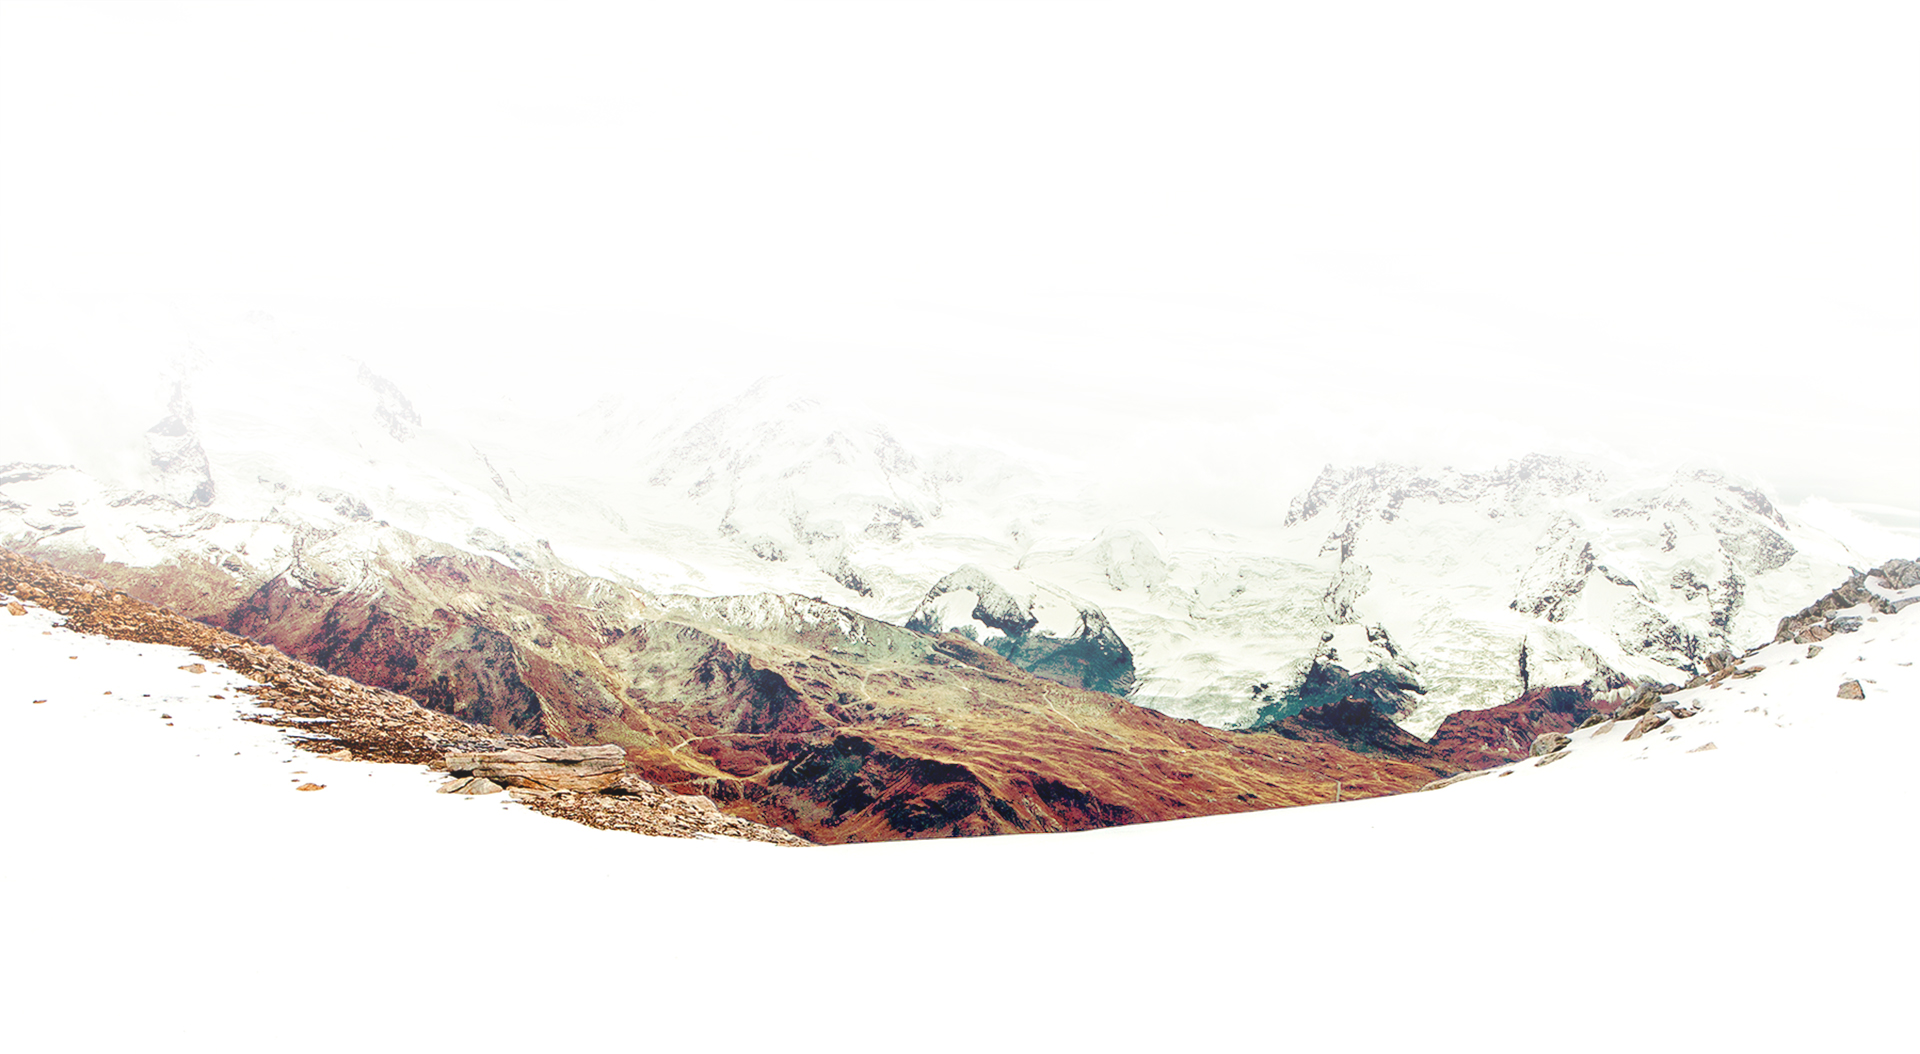
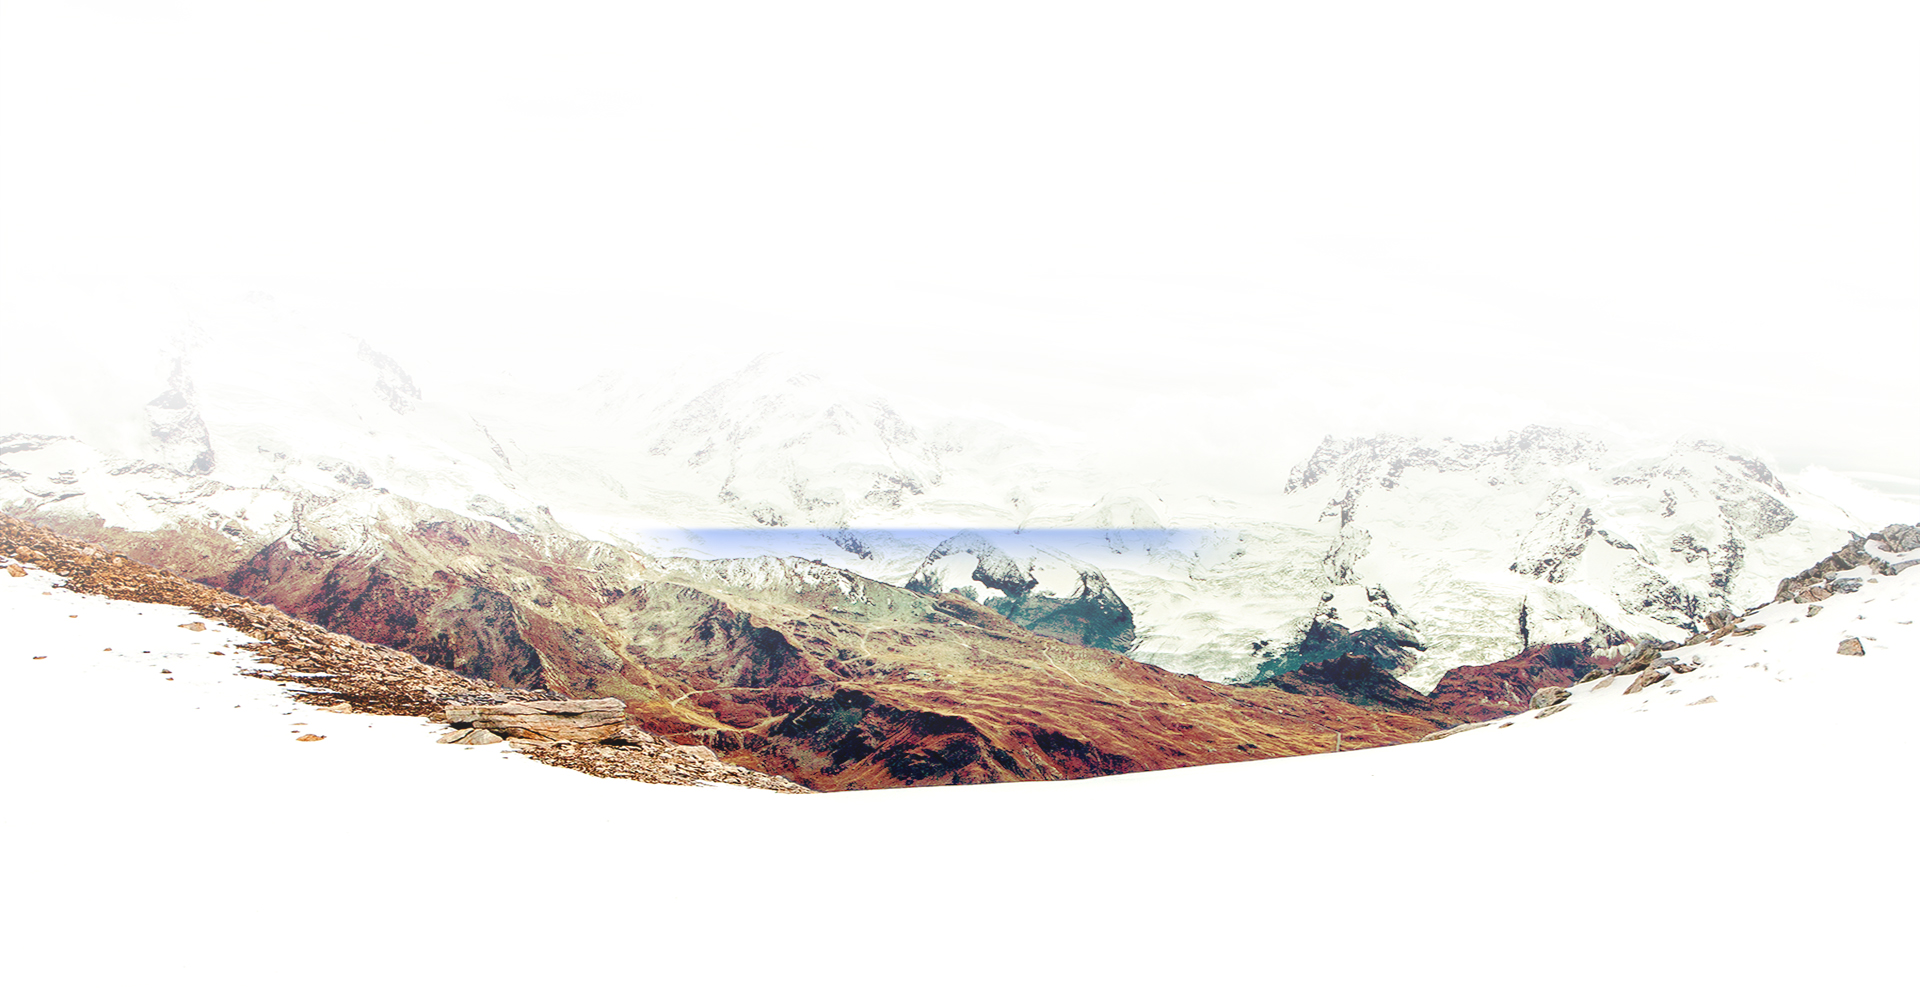
fix: fix background header

Changed region(s): [[0.3438, 0.5162, 0.625, 0.5769], [0.1562, 0.668, 0.2812, 0.7287], [0.2812, 0.7287, 0.375, 0.7895]]

diff --git a/sass/_media.sass b/sass/_media.sass
@@ -39,6 +39,8 @@
       margin-left: 20px
         
 @media (max-width: 1500px)
+  header
+    background-image: url('../img/background__responsible.jpg')
   .container
     width: 992px
   .main

diff --git a/css/style.css b/css/style.css
@@ -1486,6 +1486,9 @@ body {
 }
 
 @media (max-width: 1500px) {
+  header {
+    background-image: url("../img/background__responsible.jpg");
+  }
   .container {
     width: 992px;
   }
